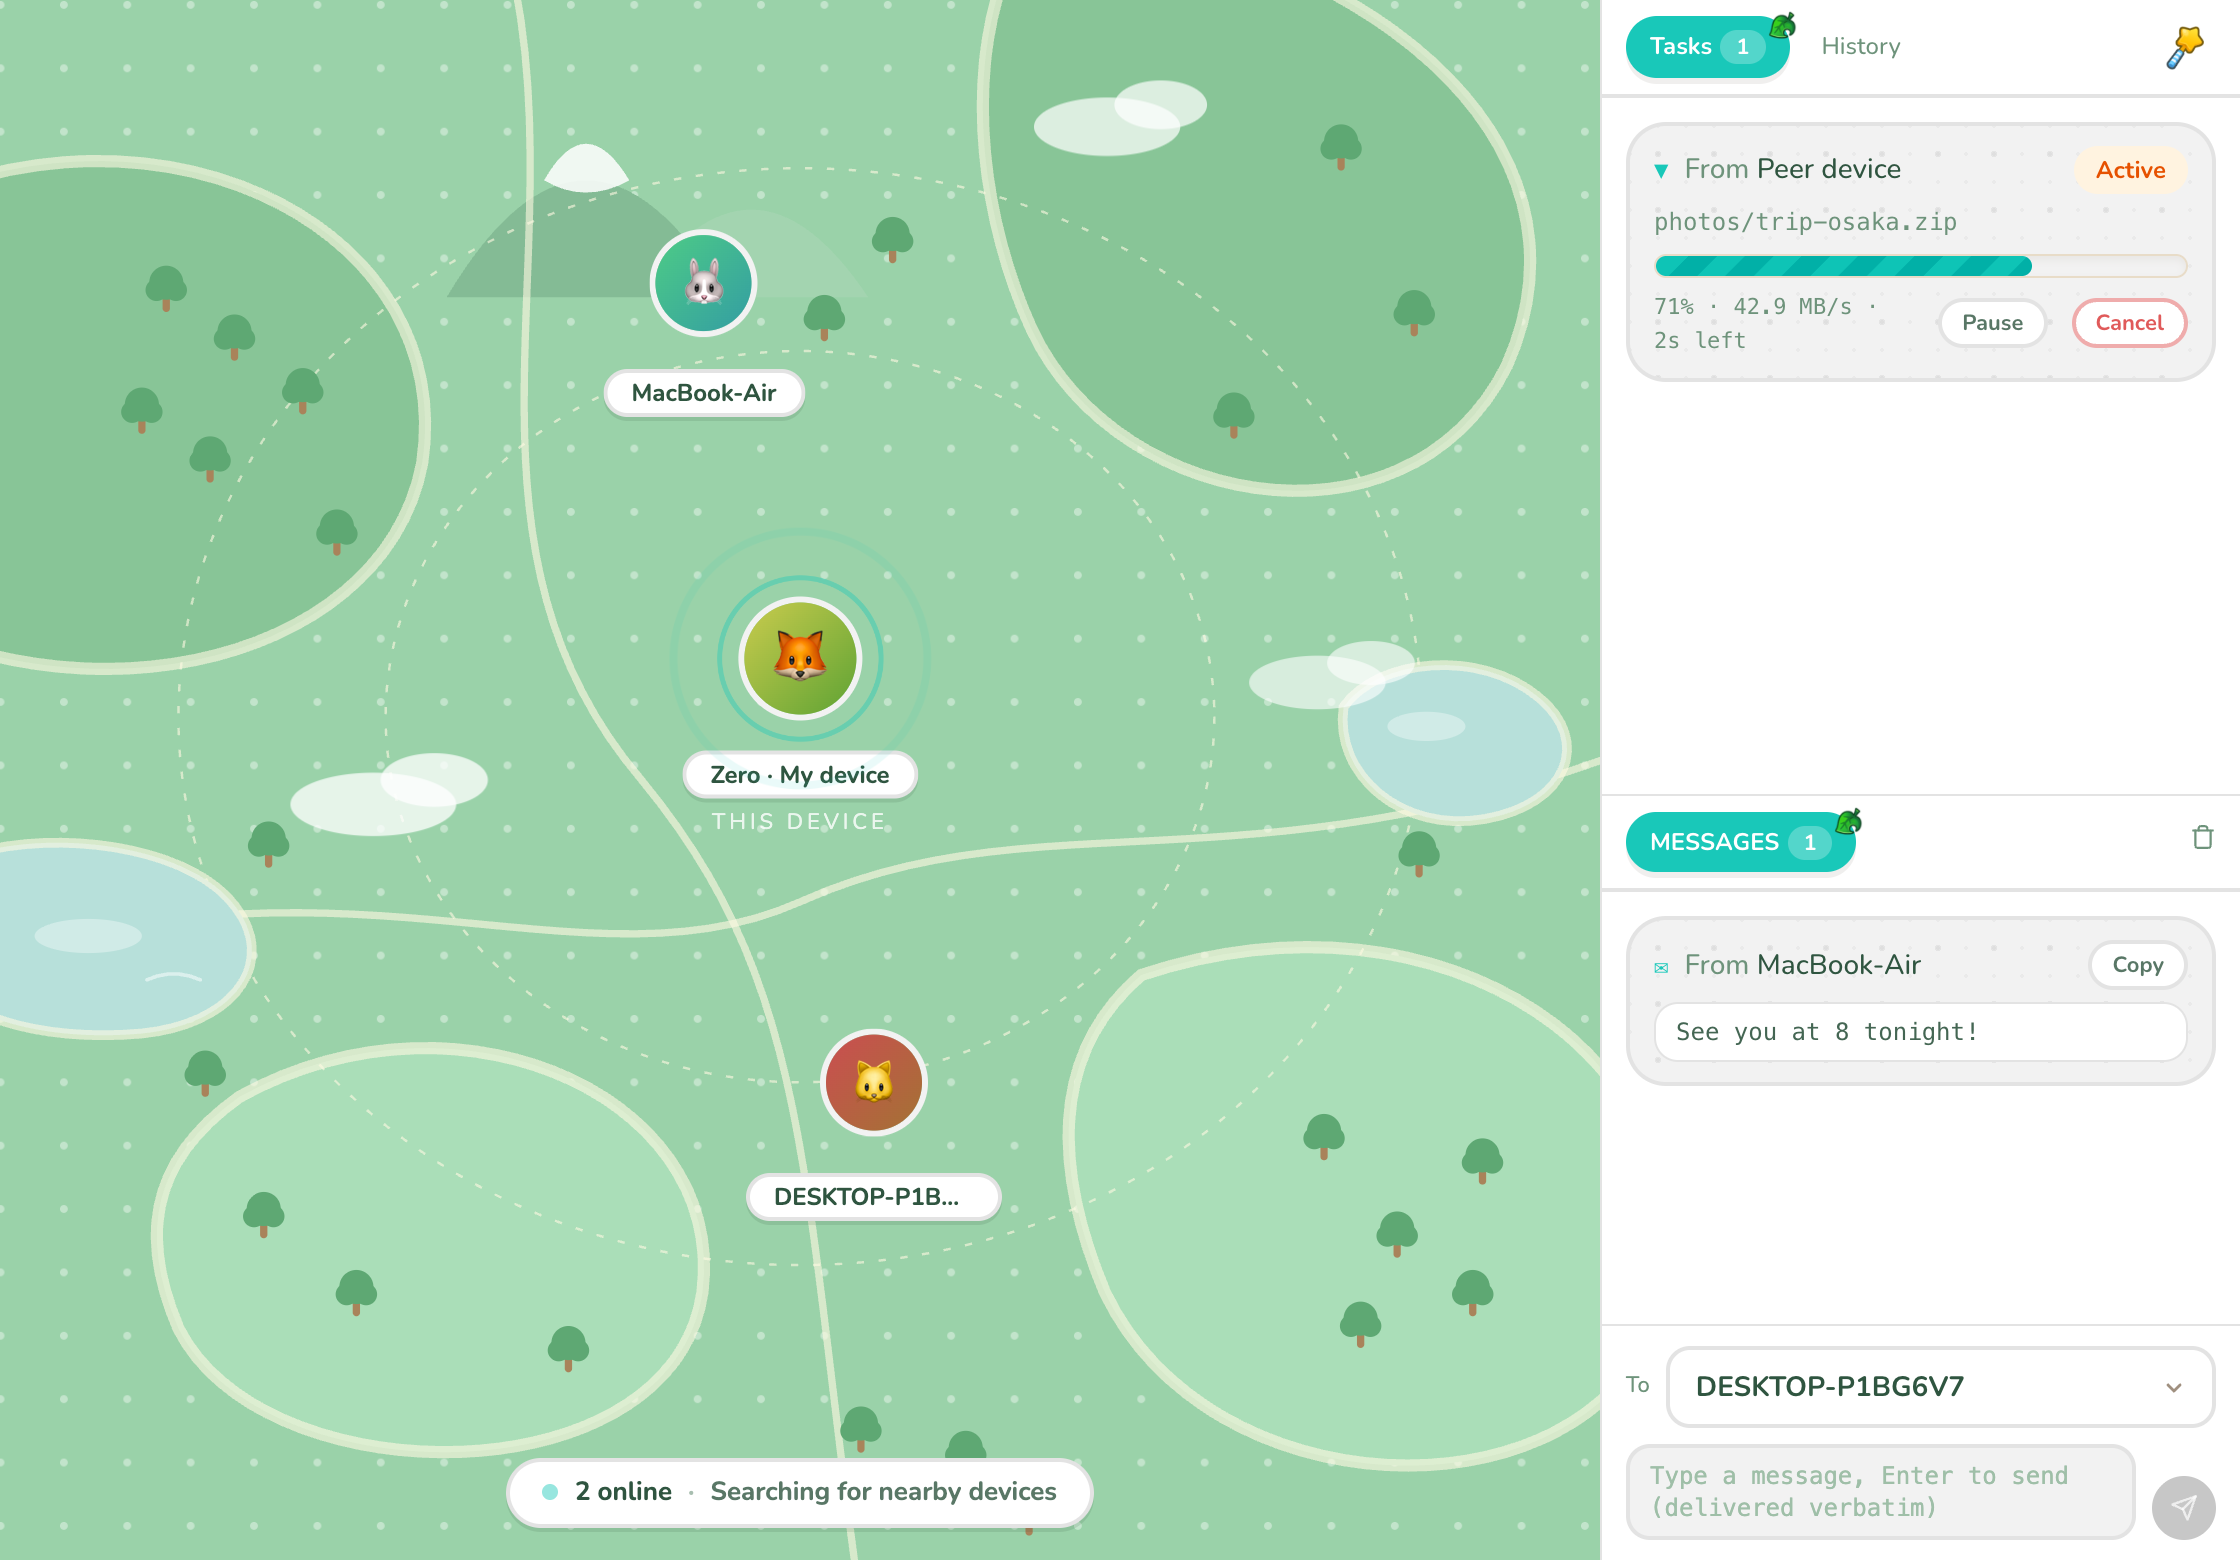
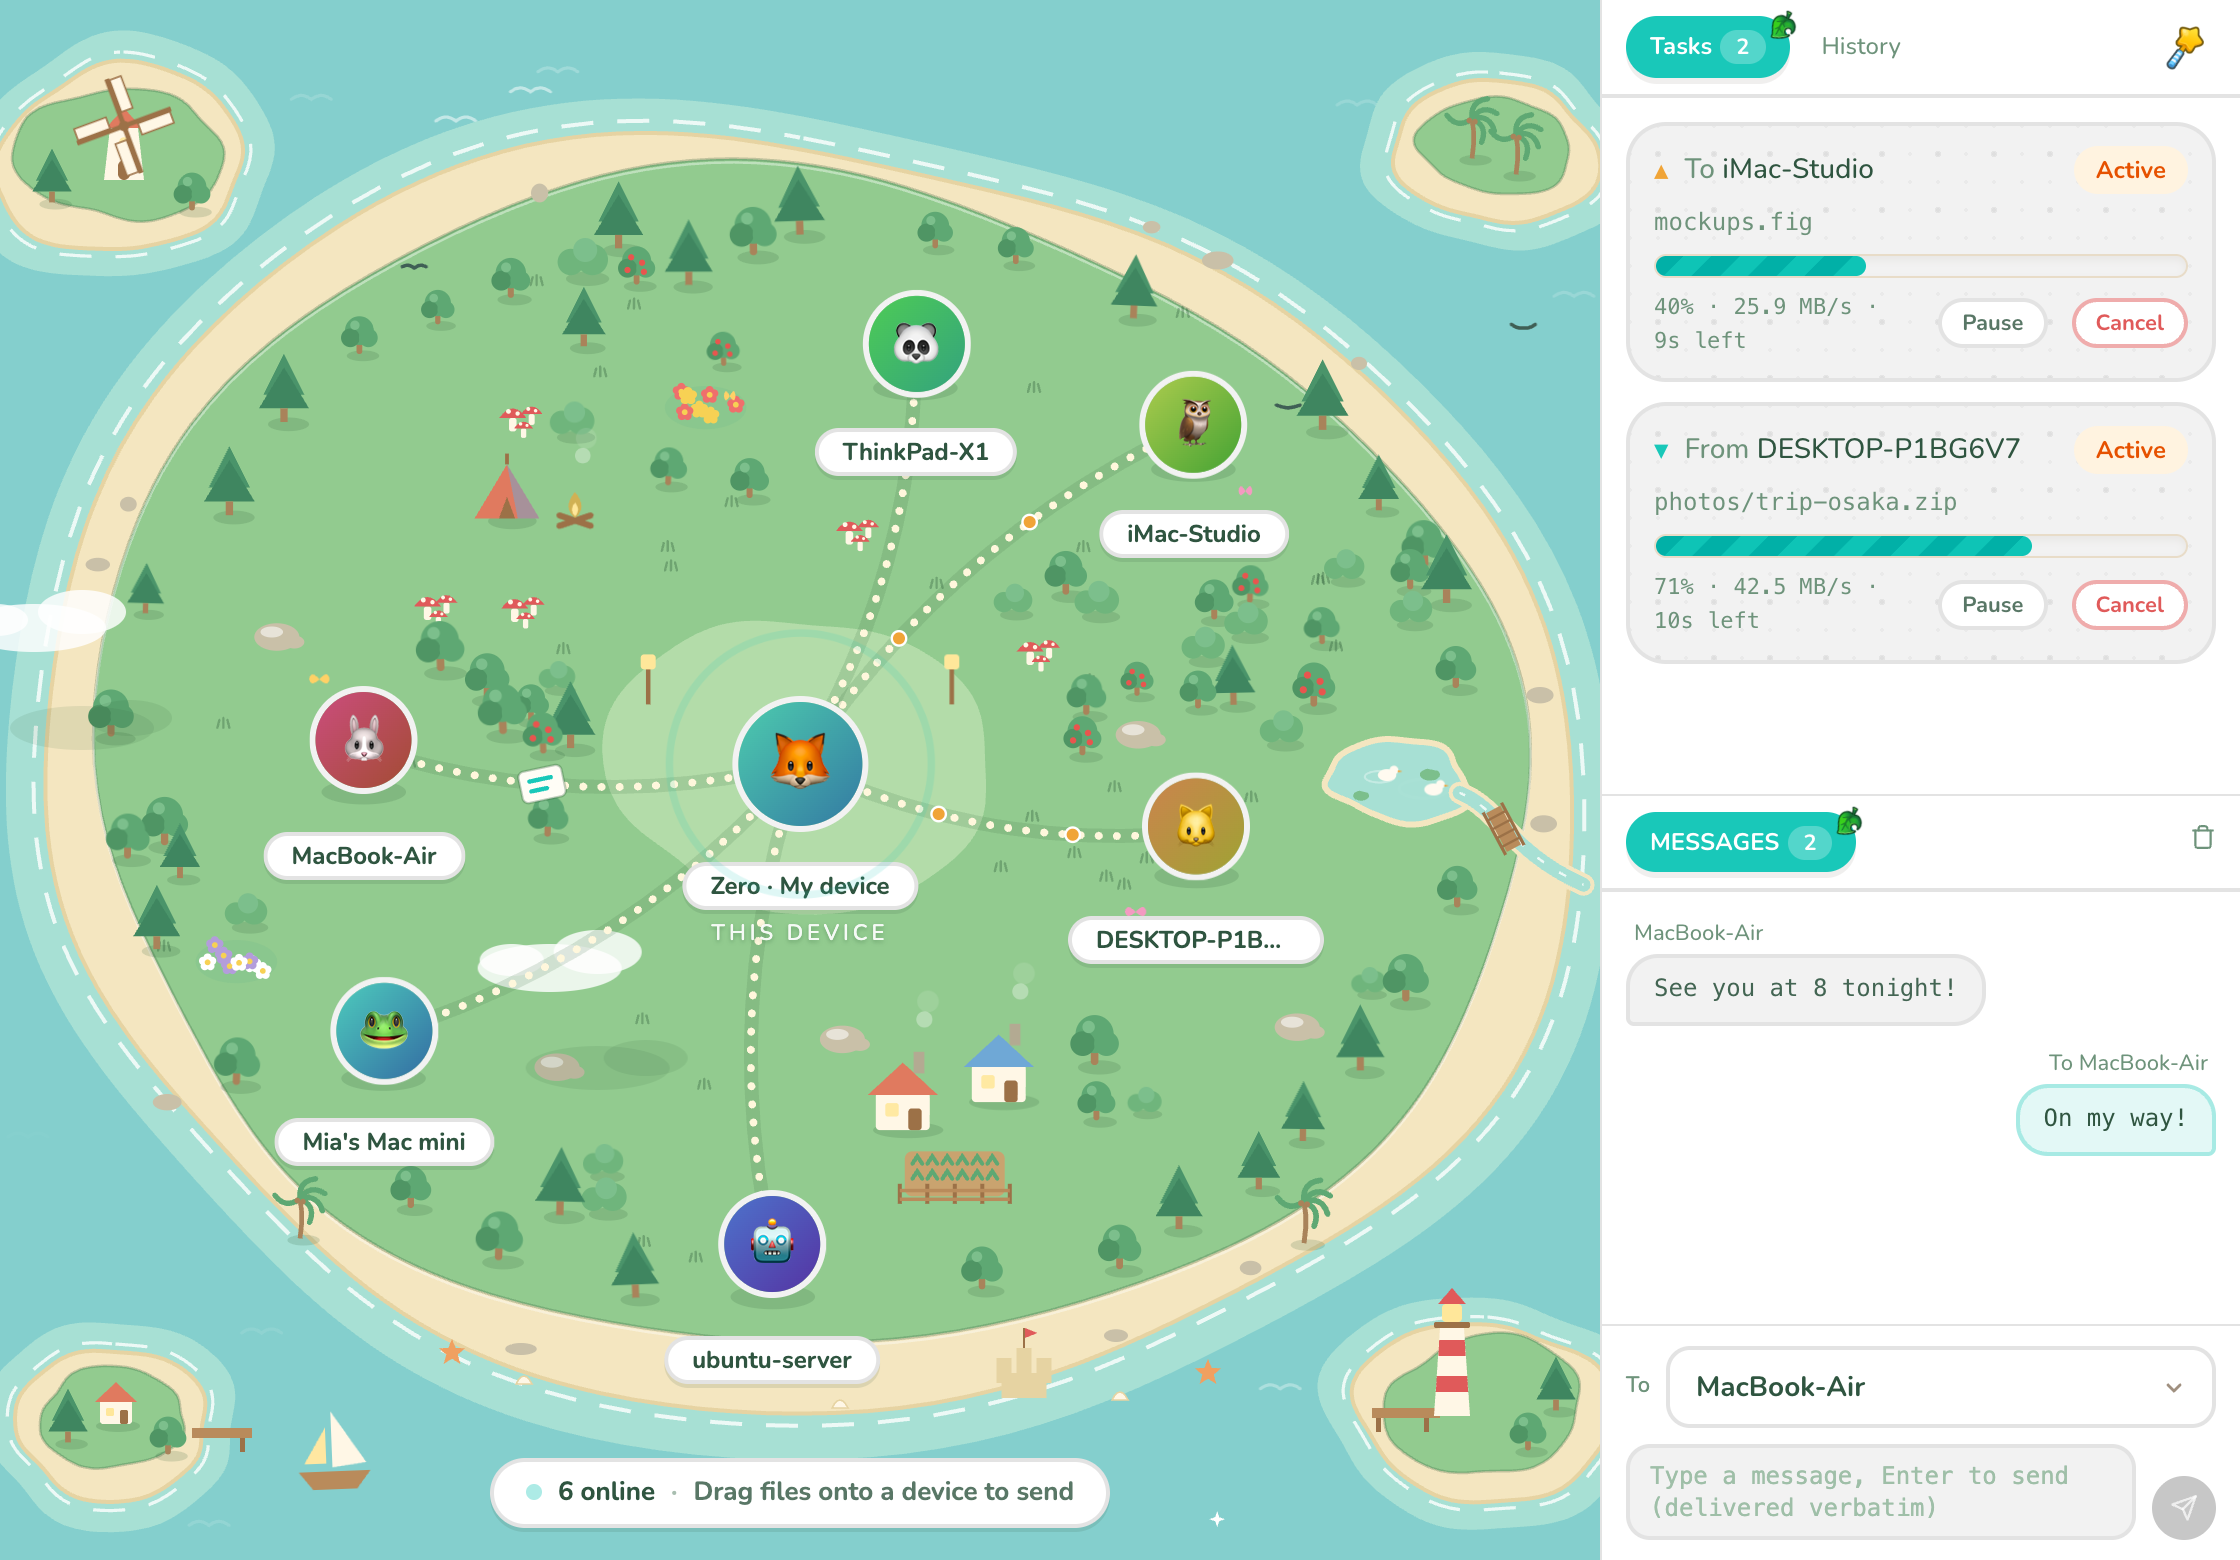
docs: refresh README screenshots for the island map
Day and night captures of the current UI with six example devices, a
two-way transfer on the trails and a text note in flight.

diff --git a/README.md b/README.md
@@ -24,8 +24,8 @@
 Every device running Deskmate is a node on your LAN, and nodes discover each other automatically. When a node comes online it shows up as a bubble on every other node's main screen in real time — a simple drag and drop sends anything to the target node, delivered at wire speed over an end-to-end TLS 1.3 channel.
 
 <p align="center">
-  <img src="./assets/screenshot-day.png" width="49.5%" alt="deskmate by day — grassland map" />
-  <img src="./assets/screenshot-night.png" width="49.5%" alt="deskmate at night — starry night map" />
+  <img src="./assets/screenshot-day.png" width="49.5%" alt="deskmate by day — island map" />
+  <img src="./assets/screenshot-night.png" width="49.5%" alt="deskmate at night — the island under the stars" />
 </p>
 
 ## ✨ Features

diff --git a/README.zh.md b/README.zh.md
@@ -25,8 +25,8 @@ Deskmate 运行的每台设备, 都是局域网络中的一个节点，节点与
 
 
 <p align="center">
-  <img src="./assets/screenshot-day.png" width="49.5%" alt="deskmate 白天 —— 青青草原地图" />
-  <img src="./assets/screenshot-night.png" width="49.5%" alt="deskmate 夜晚 —— 星空夜色地图" />
+  <img src="./assets/screenshot-day.png" width="49.5%" alt="deskmate 白天 —— 海岛地图" />
+  <img src="./assets/screenshot-night.png" width="49.5%" alt="deskmate 夜晚 —— 星空下的海岛" />
 </p>
 
 ## ✨ 特性
